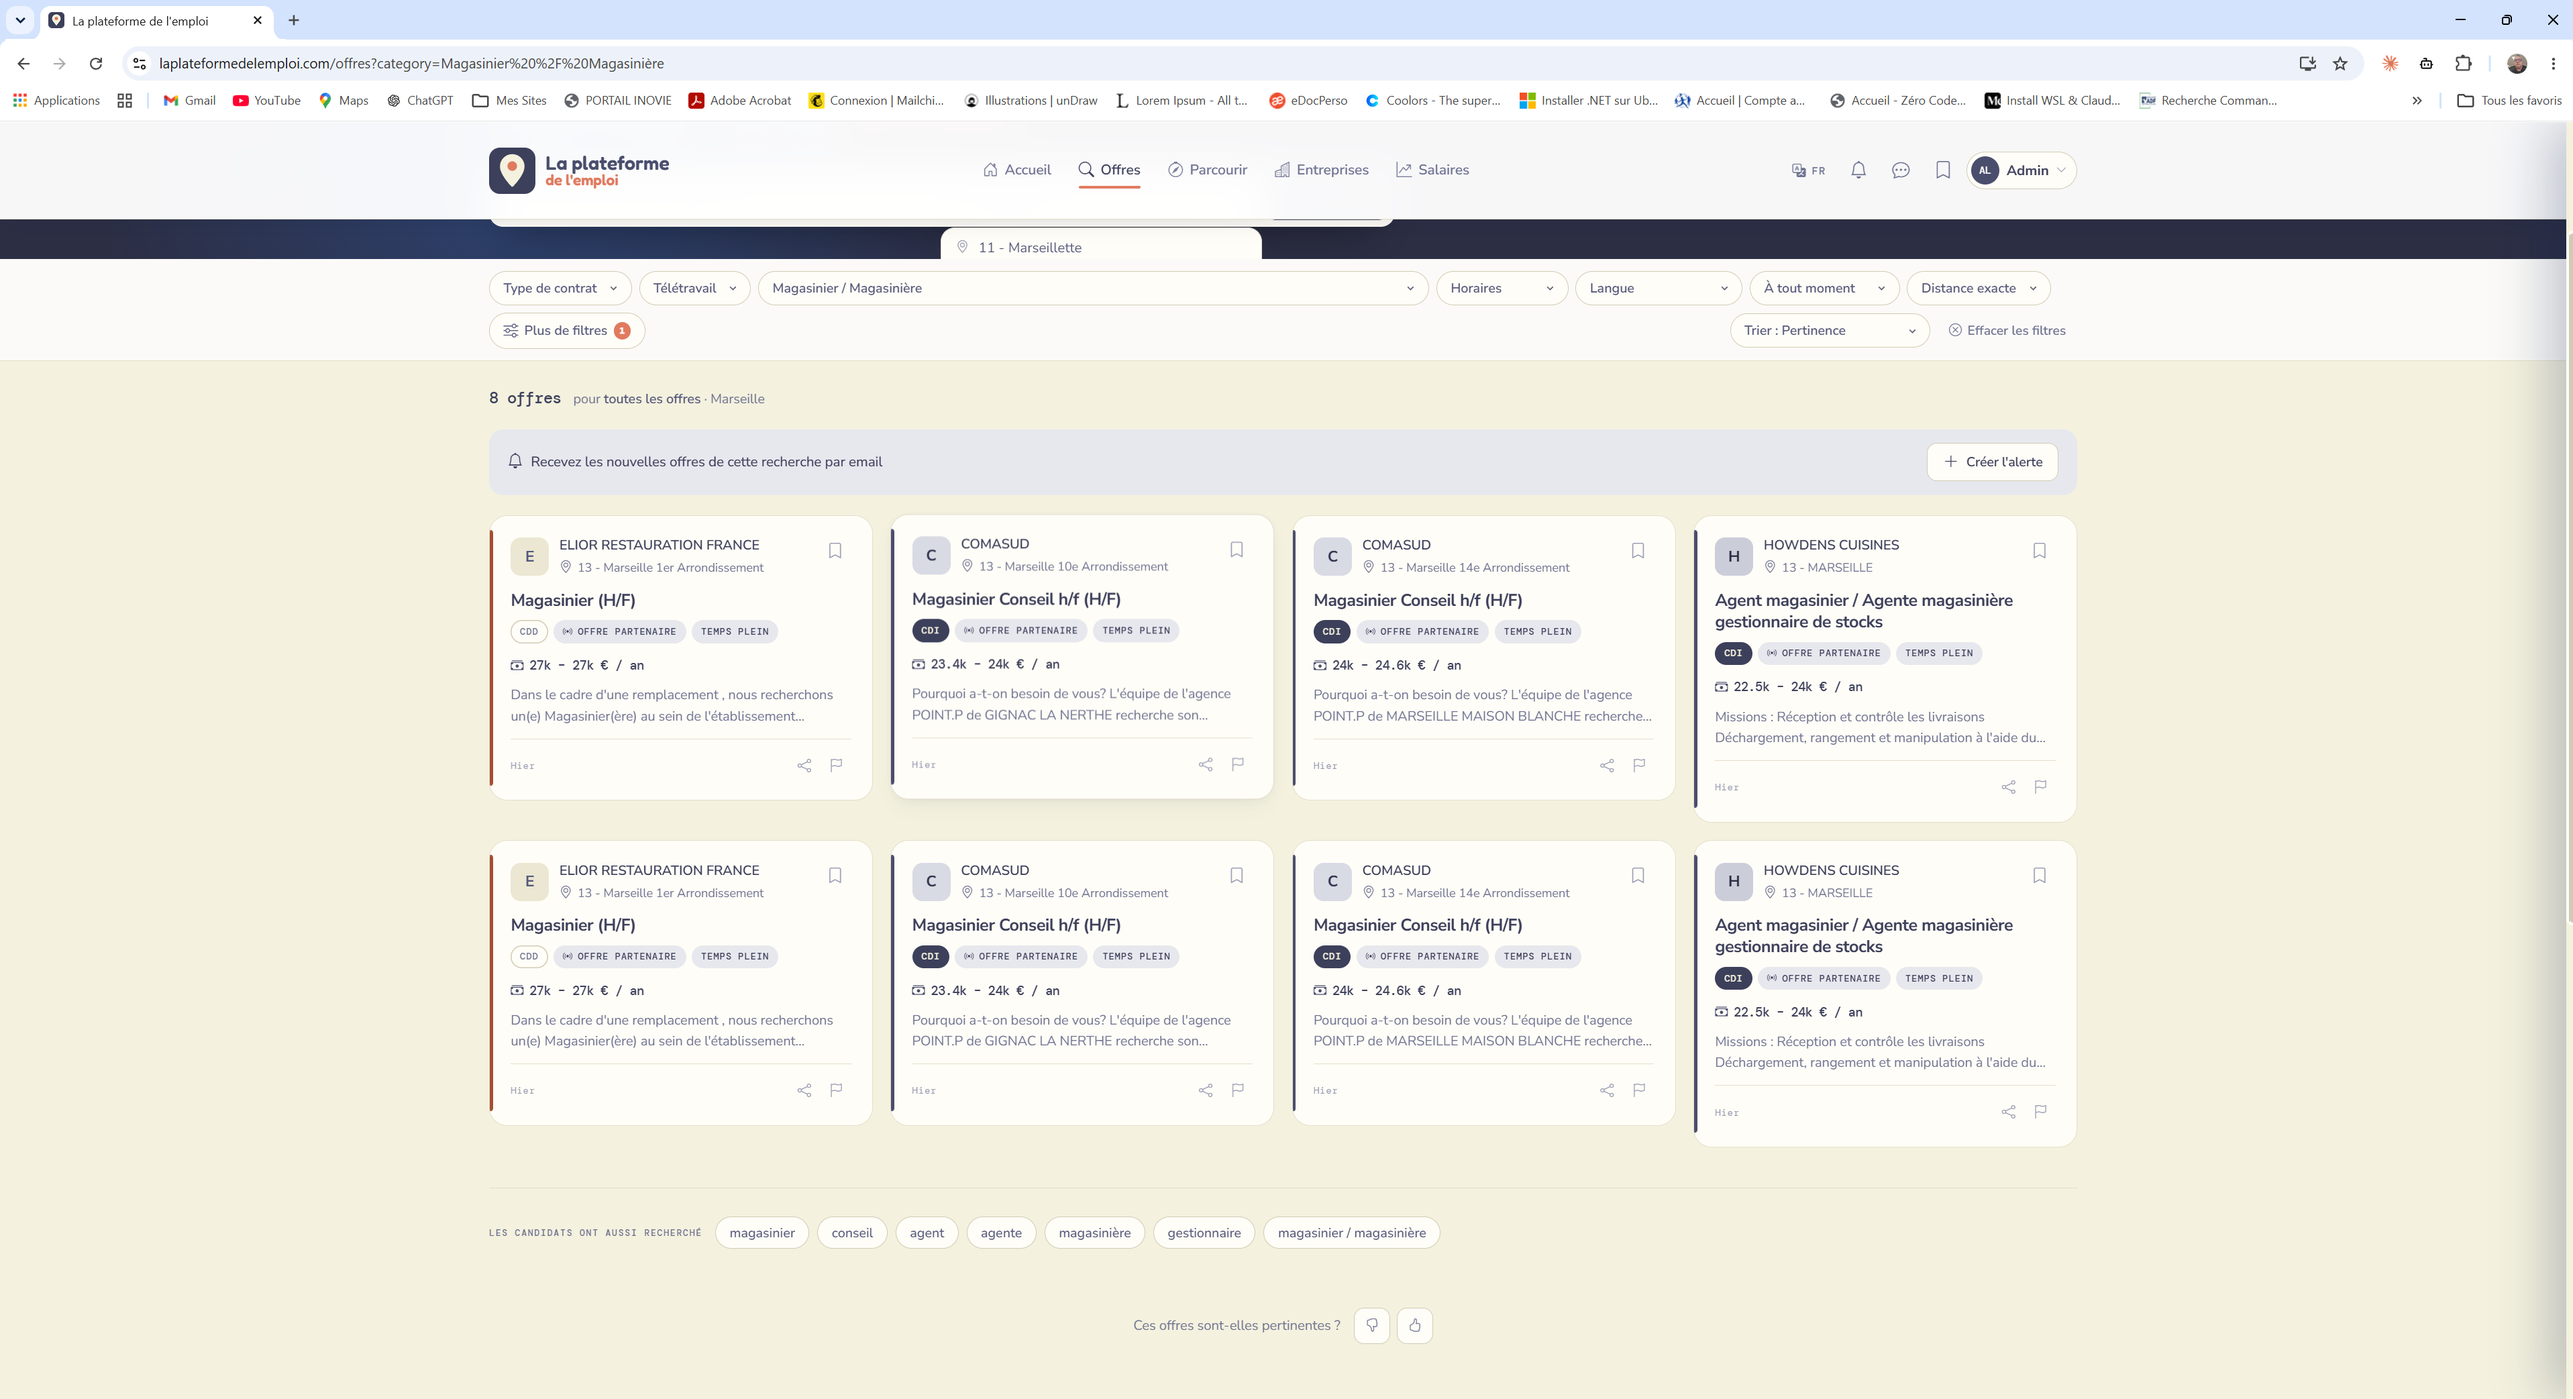
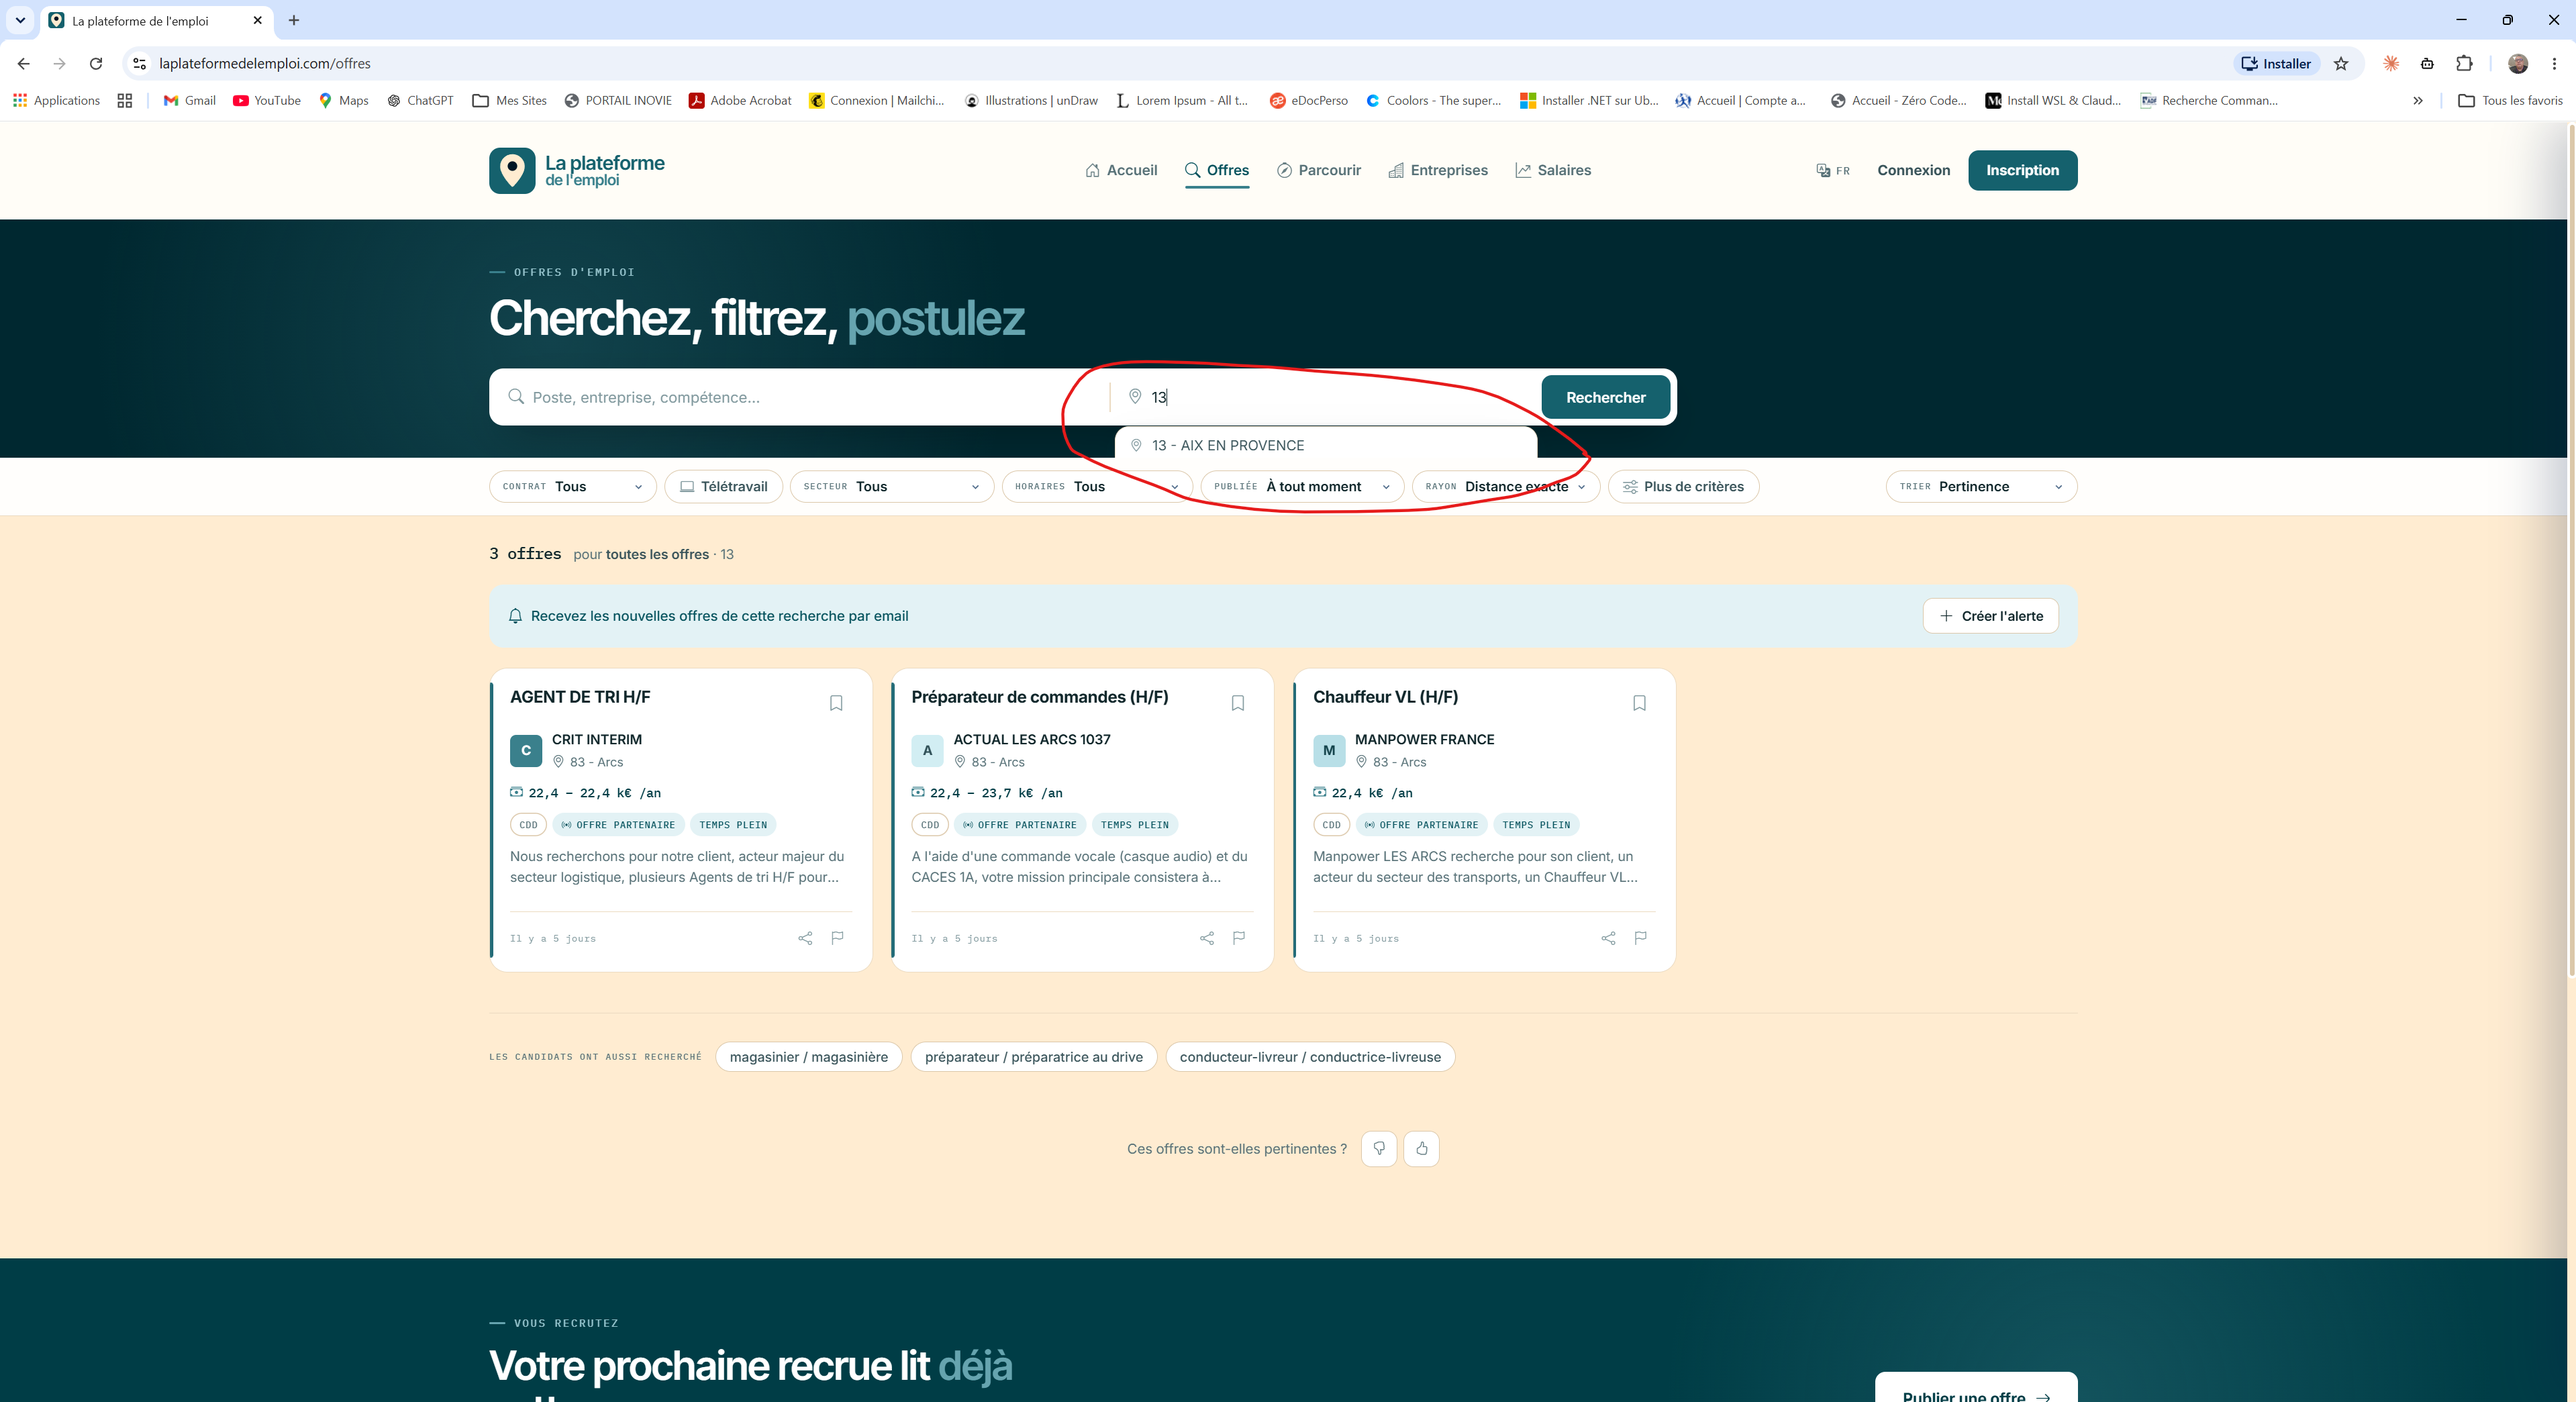
fix(offres): la liste d'autocompletion sort enfin du bandeau de recherche
Taper « 13 » dans le champ Lieu ouvrait bien les suggestions, mais elles
etaient tranchees net a la limite basse du bandeau bleu : a moitie
lisibles, a moitie cliquables. Trois causes empilees, chacune masquant
la suivante.

1. `.search-hero` portait `overflow: hidden`, uniquement pour contenir un
   halo decoratif qui debordait volontairement (`top: -40%`,
   `height: 180%`). Mais un `overflow: hidden` ne choisit pas ce qu'il
   rogne. Le halo tient desormais dans le cadre — meme teinte, calque a
   `inset: 0` — et le bandeau ne rogne plus rien.

2. Une fois libere, le menu passait derriere la barre de filtres
   collante. Son z-index est monte au-dessus (60 contre 40), sous le
   tiroir de detail qui est modal.

3. Cela ne suffisait toujours pas : `.sh-content` porte `animate-in`, qui
   anime `fadeUp` avec `fill-mode: both` et laisse donc l'element fige
   sur `translateY(0)` — un transform identite, qui ne deplace rien mais
   cree un contexte d'empilement, definitivement. Le menu y etait
   enferme : aucun z-index ne pouvait l'en sortir. L'entree reste, en
   fondu seul, qui ne laisse aucun contexte derriere lui.

Le bandeau monte enfin au-dessus des resultats (`has-ac`), mais seulement
pendant qu'une liste est ouverte : le lever en permanence le ferait
passer par-dessus la barre collante des qu'on defile.

Verifie sur les deux champs : les huit suggestions sont entierement
visibles et cliquables, et la barre de filtres reprend le dessus une fois
le menu ferme.

diff --git a/src/app/components/job-list/job-list.scss b/src/app/components/job-list/job-list.scss
@@ -3,24 +3,60 @@
 // ═══════════════════════════════════════════════
 
 // ── Bandeau de recherche (prolonge la navbar) ──
+//
+// Pas d'`overflow: hidden` ici, et c'est délibéré.
+//
+// Le halo décoratif ci-dessous débordait volontairement du bandeau
+// (`top: -40%`, `height: 180%`), ce qui obligeait à rogner le bandeau
+// pour le contenir. Mais un `overflow: hidden` ne choisit pas ce qu'il
+// rogne : il coupait aussi la liste d'autocomplétion des champs de
+// recherche, qui s'ouvre sous eux et dépasse forcément le bas du
+// bandeau. La suggestion apparaissait tranchée net à la limite du
+// bleu, à moitié lisible et à moitié cliquable.
+//
+// Le halo tient donc désormais dans le cadre — le dégradé est placé
+// dans un calque à `inset: 0`, la teinte reste la même — et le
+// bandeau ne rogne plus rien.
 .search-hero {
   position: relative;
   // Pas de marge basse : la barre de filtres claire vient s'y appuyer.
   padding: clamp(1.75rem, 3.5vw, 2.75rem) 0 clamp(1.5rem, 2.5vw, 2rem);
   background: var(--plum-900);
-  overflow: hidden;
+
+  // Le bandeau ne monte que pendant qu'une liste de suggestions est
+  // ouverte — au-dessus de la barre de filtres (40) et des résultats.
+  // Le laisser haut en permanence le ferait passer par-dessus la barre
+  // collante des qu'on defile ; le monter au besoin ne coute rien,
+  // puisqu'on ne saisit une recherche qu'en haut de page.
+  &.has-ac { z-index: 50; }
 
   &::before {
     content: '';
     position: absolute;
-    top: -40%; left: -6%;
-    width: 55%; height: 180%;
-    background: radial-gradient(circle, rgba(58, 128, 140, 0.3), transparent 62%);
+    inset: 0;
+    background: radial-gradient(circle at 21% 50%, rgba(58, 128, 140, 0.3), transparent 62%);
     pointer-events: none;
   }
 }
 
-.sh-content { position: relative; display: flex; flex-direction: column; }
+// `animate-in` anime `fadeUp` avec `fill-mode: both` : l'élément reste
+// donc figé sur la dernière image, `translateY(0)`, soit un transform
+// identité — qui ne déplace rien mais crée un contexte d'empilement, et
+// le crée définitivement.
+//
+// Le menu d'autocomplétion s'y trouvait enfermé. Quel que soit son
+// z-index, il ne pouvait pas franchir ce contexte : il passait derrière
+// la barre de filtres et derrière les cartes de résultats. Le z-index
+// n'y était pour rien, le piège était deux étages plus haut.
+//
+// L'entrée reste, en fondu seul : une opacité qui finit à 1 ne laisse
+// aucun contexte derrière elle.
+.sh-content {
+  position: relative;
+  display: flex;
+  flex-direction: column;
+  animation: fadeIn 0.5s var(--ease-out) both;
+}
 
 .search-hero .eyebrow {
   color: var(--on-plum-muted);
@@ -126,7 +162,11 @@
   border-radius: var(--r-md);
   box-shadow: var(--shadow-xl);
   overflow: hidden;
-  z-index: 30;
+  // Au-dessus de la barre de filtres collante (40). Le menu s'ouvre en
+  // débordant du bandeau et passe donc devant elle : à 30, il était
+  // simplement caché derrière au lieu d'être rogné — le même défaut, un
+  // pas plus loin. En dessous du tiroir de détail (1000), qui est modal.
+  z-index: 60;
   animation: fadeIn 0.12s ease both;
 }
 

diff --git a/src/app/components/job-list/job-list.html b/src/app/components/job-list/job-list.html
@@ -1,5 +1,10 @@
-<!-- ═══ SEARCH HERO ═══ -->
-<section class="search-hero">
+<!-- ═══ SEARCH HERO ═══
+     `has-ac` monte le bandeau au-dessus de la barre de filtres et des
+     résultats, uniquement pendant qu'une liste de suggestions est
+     ouverte. Le menu déborde forcément du bandeau ; sans cela il passait
+     derrière ce qui suit, et le lever en permanence ferait passer le
+     bandeau par-dessus la barre de filtres collante au défilement. -->
+<section class="search-hero" [class.has-ac]="kwSuggestions().length || locSuggestions().length">
   <div class="container">
     <div class="sh-content animate-in">
       <span class="eyebrow">Offres d'emploi</span>
